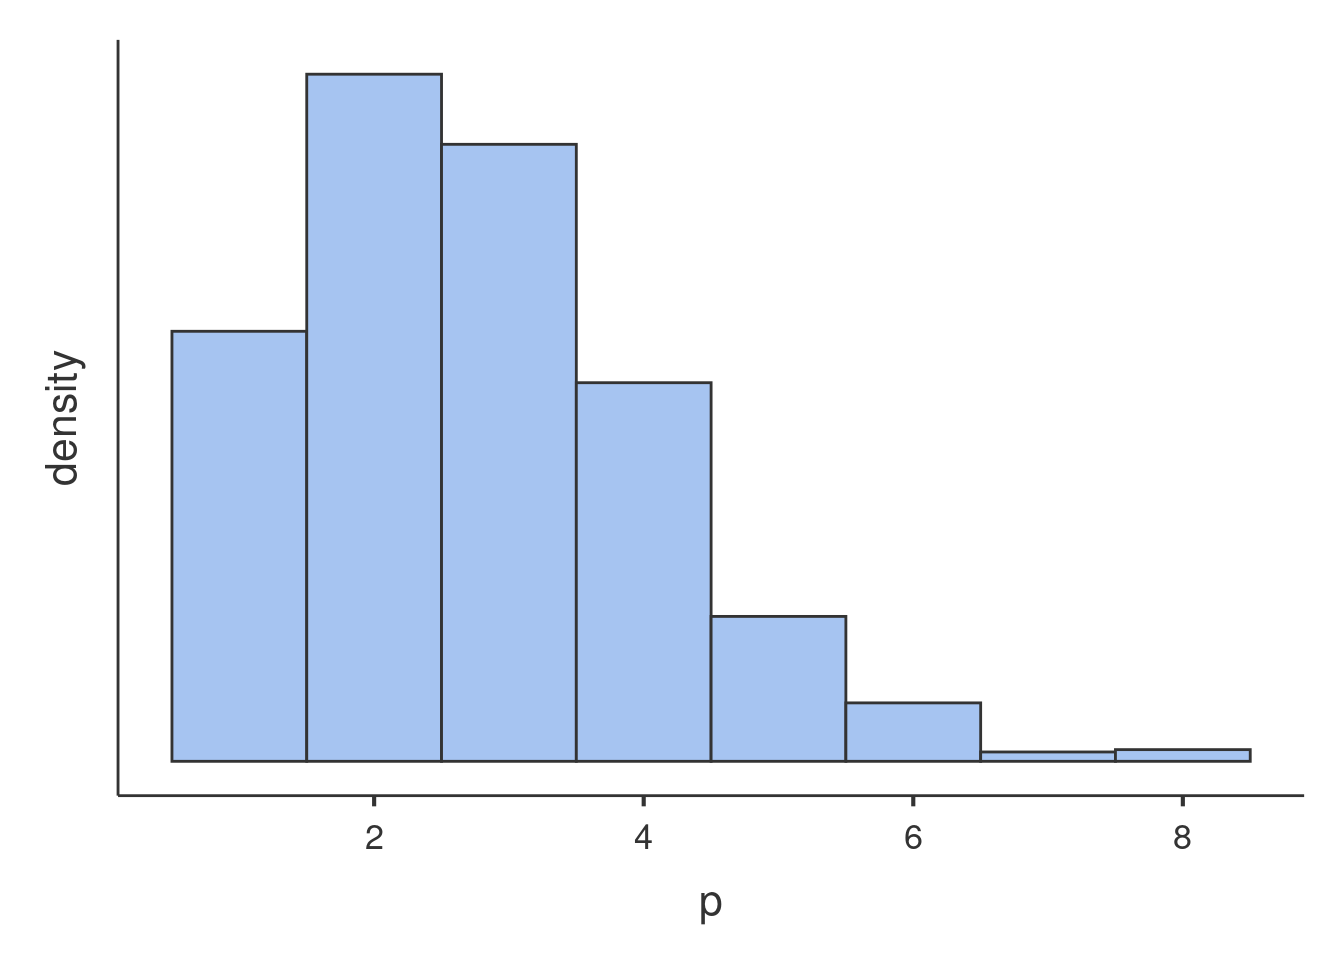
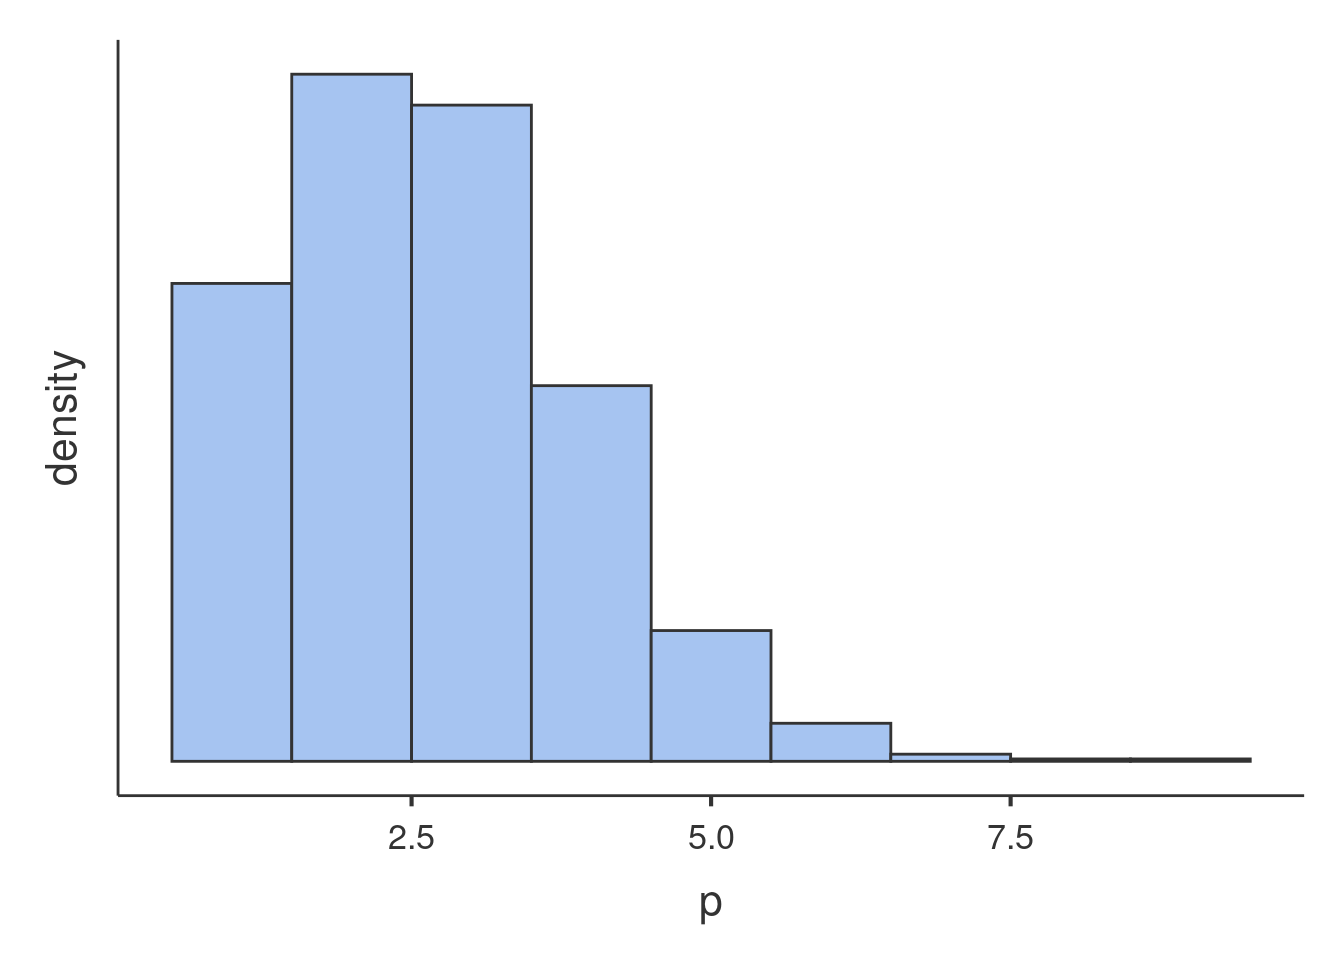
updates

diff --git a/docs/glmmixed_example2.html b/docs/glmmixed_example2.html
@@ -390,7 +390,7 @@ div.tocify {
 <p><img src="glmmixed_example2_files/figure-html/unnamed-chunk-2-1.png" width="672" /></p>
 <p>Glancing at the histogram makes it clear that the distribution is not normal, but it roughly resembles the Poisson distribution. Here is an example of Poisson distribution with equivalent mean.</p>
 <p><img src="glmmixed_example2_files/figure-html/unnamed-chunk-3-1.png" width="672" /></p>
-<p>We can see that the shape of our distribution is not qualitatively very different as compared with a theoretical Poisson distribution, so a Generalized Linear Model with Poisson distribition may work. However, we can check wheather our distribution is in line with the features of the Poisson dist by checking its mean and variance. The Poisson distribution has variance equal to the mean, in fact the simulated distribution in the histogram has <span class="math inline">\(\bar{x}=1.74\)</span> and <span class="math inline">\(s^2=1.788\)</span>. The <code>art</code> variable distribution has <span class="math inline">\(\bar{x}=1.693\)</span> and <span class="math inline">\(s^2=3.71\)</span>, with a ratio variance/mean of 2.191, which does not really qualify for Poisson dist. This looks like a case of <strong>overdispersion</strong>, <a href="http://bbolker.github.io/mixedmodels-misc/glmmFAQ.html#overdispersion">cf. here for details</a>. We will than consider a Negative Binomial model to account for possible overdispersion.</p>
+<p>We can see that the shape of our distribution is not qualitatively very different as compared with a theoretical Poisson distribution, so a Generalized Linear Model with Poisson distribition may work. However, we can check wheather our distribution is in line with the features of the Poisson dist by checking its mean and variance. The Poisson distribution has variance equal to the mean, in fact the simulated distribution in the histogram has <span class="math inline">\(\bar{x}=1.648\)</span> and <span class="math inline">\(s^2=1.602\)</span>. The <code>art</code> variable distribution has <span class="math inline">\(\bar{x}=1.693\)</span> and <span class="math inline">\(s^2=3.71\)</span>, with a ratio variance/mean of 2.191, which does not really qualify for Poisson dist. This looks like a case of <strong>overdispersion</strong>, <a href="http://bbolker.github.io/mixedmodels-misc/glmmFAQ.html#overdispersion">cf. here for details</a>. We will than consider a Negative Binomial model to account for possible overdispersion.</p>
 <p>An example of Negative Binomial distribution with equivalent mean and variance is here.</p>
 <p><img src="glmmixed_example2_files/figure-html/unnamed-chunk-4-1.png" width="672" /></p>
 <p>The second issue one needs to deal with is the structure of the data. We have seen that the students are not a random sample of students drawn independently one each other, but they are grouped by the program they are enrolled in. There are 83 programs, in each program there are on average 11 students. Because students in the same program may be more similar one each other than across programs, <code>programs</code> may cluster the scores of the dependent variable and create dependency in the data. To take dependency into the account, we will use a random intercepts model estimated with a Generalized Mixed Model.</p>

diff --git a/docs/glm.html b/docs/glm.html
@@ -424,7 +424,7 @@ div.tocify {
 </div>
 <div id="covariates-scaling" class="section level1">
 <h1>Covariates Scaling</h1>
-<p><img src="glm/dscoring.png" class="img-responsive" alt=""></p>
+<p><img src="glm/xscoring.png" class="img-responsive" alt=""></p>
 <p>Continuous variables can be centered, standardized (<span class="option">z-scores</span>), log-transformed (<span class="option">Log</span>) or used as they are (<span class="option">none</span>). The default is <span class="option">centered</span> because it makes our lives much easier when there are interactions in the model, and do not affect the B coefficients when there are none. Thus, if one is comparing results with other software that does not center the continuous variables, without interactions in the model one would find only a discrepancy in the intercept, because in GAMLj the intercept represents the expected value of the dependent variable for the average value of the independent variable. If one needs to <em>unscale</em> the variable, simply select <span class="option">none</span>.</p>
 <p><span class="option">Covariates conditioning</span> rules how the model is conditioned to different values of the continuous independent variables in the <em>simple effects</em> estimation and in the <em>plots</em> when there is an interaction in the model.</p>
 <ul>
